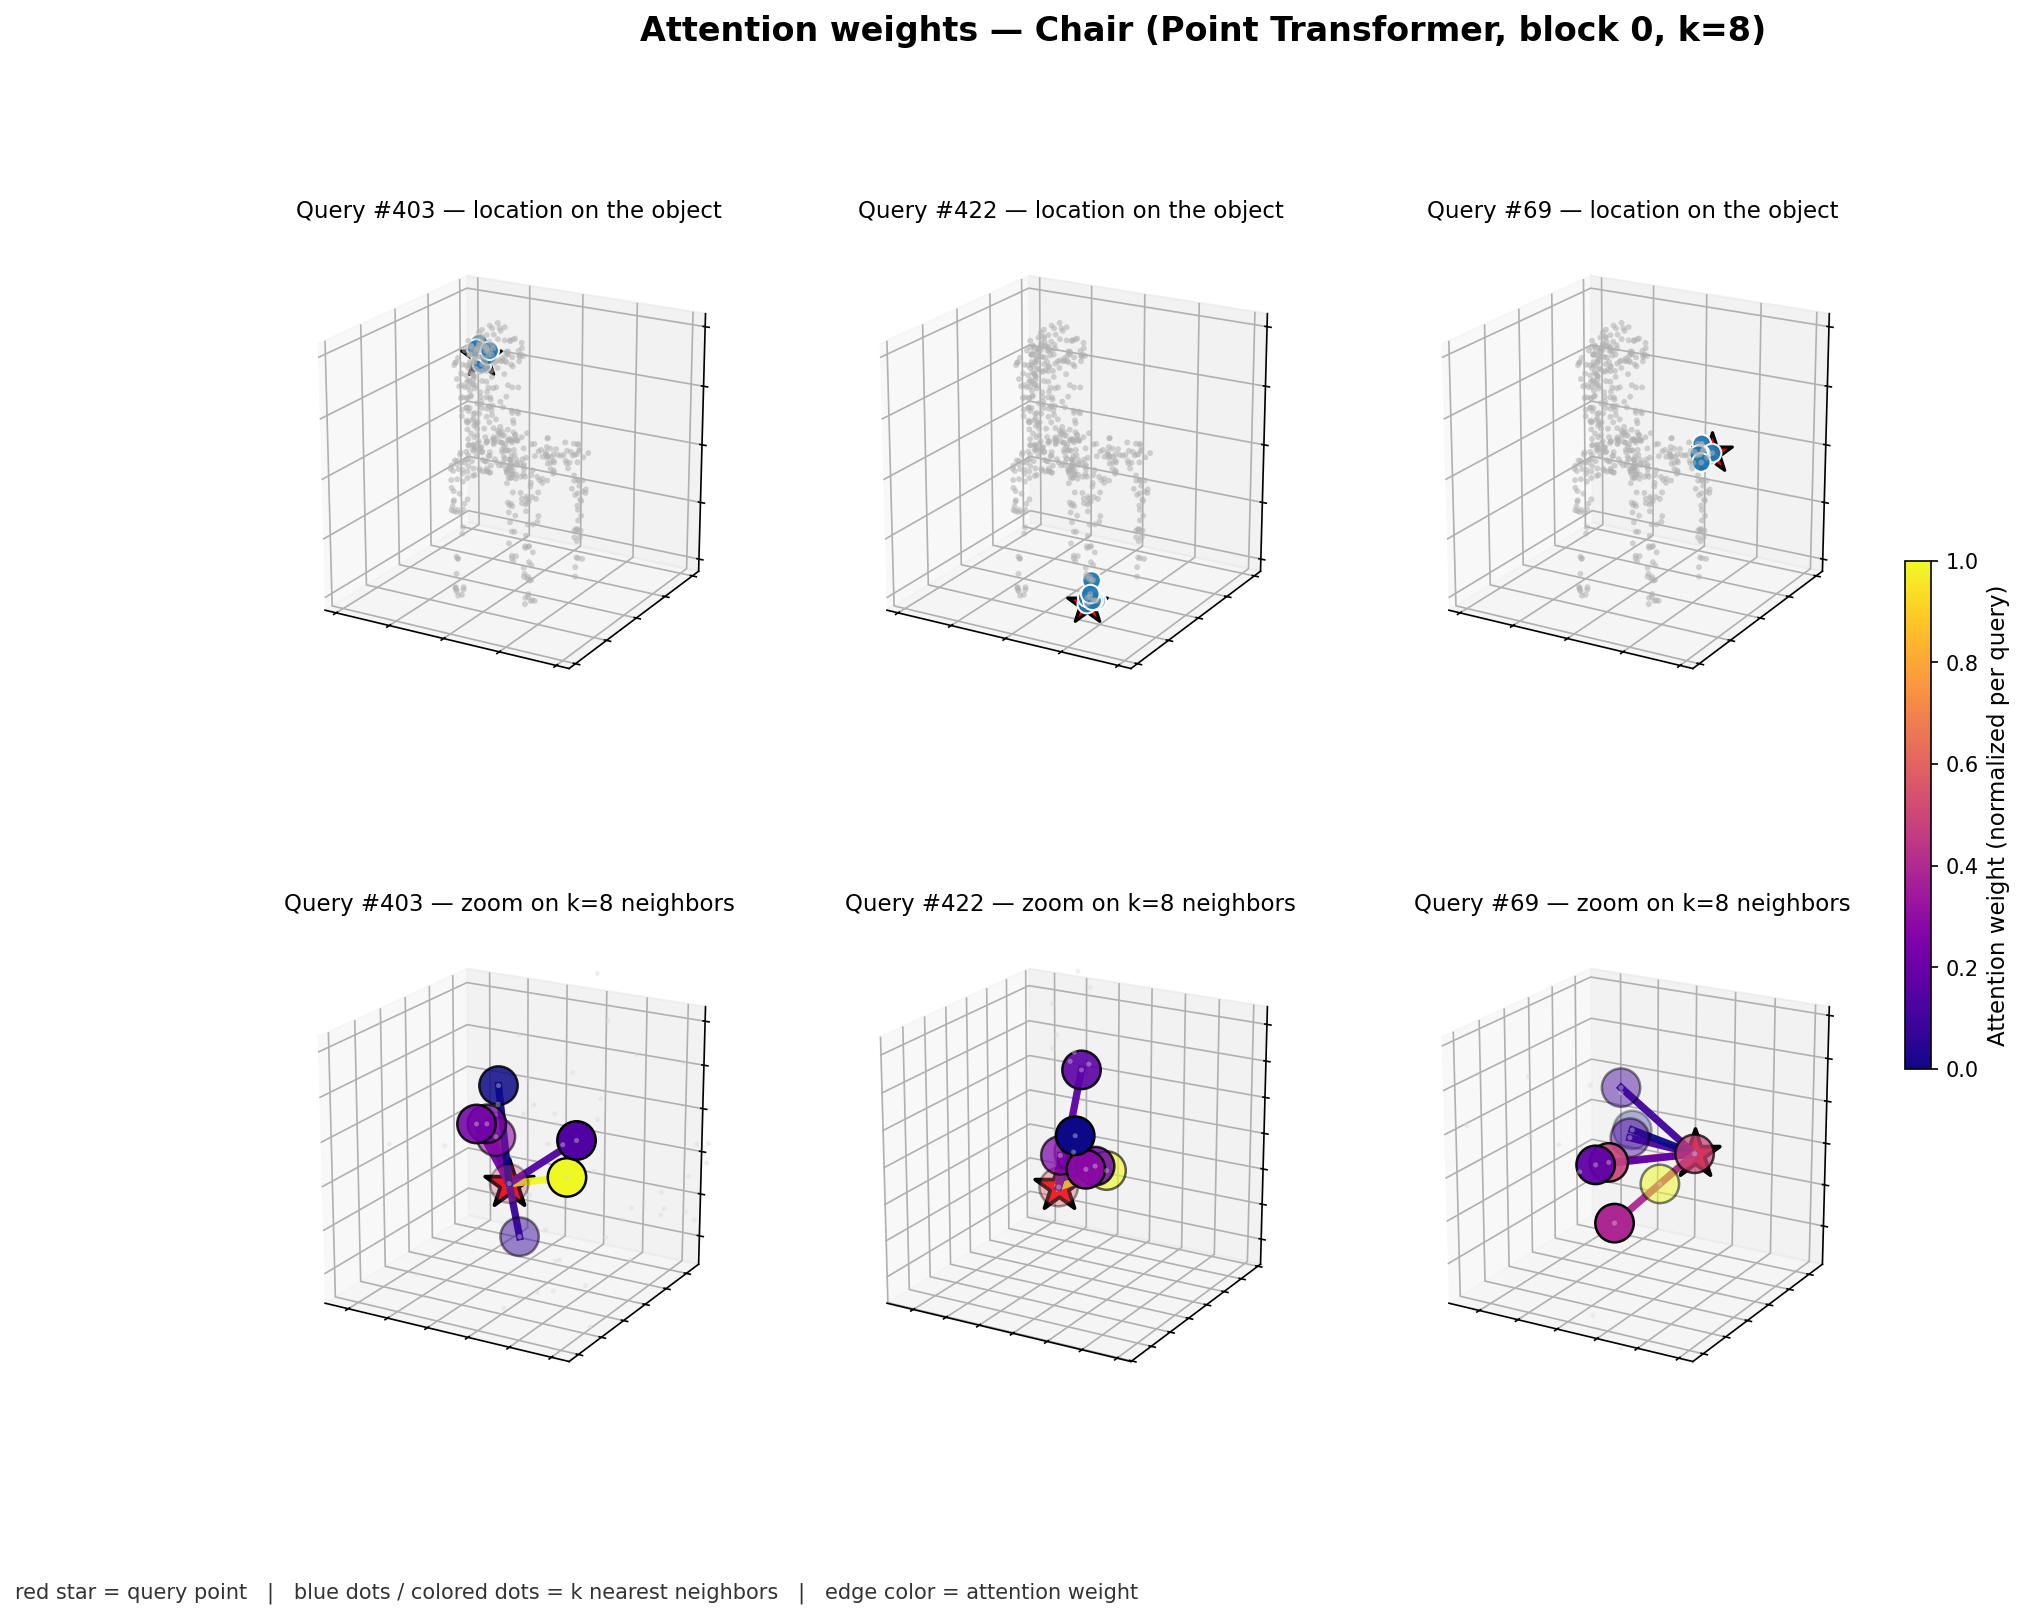
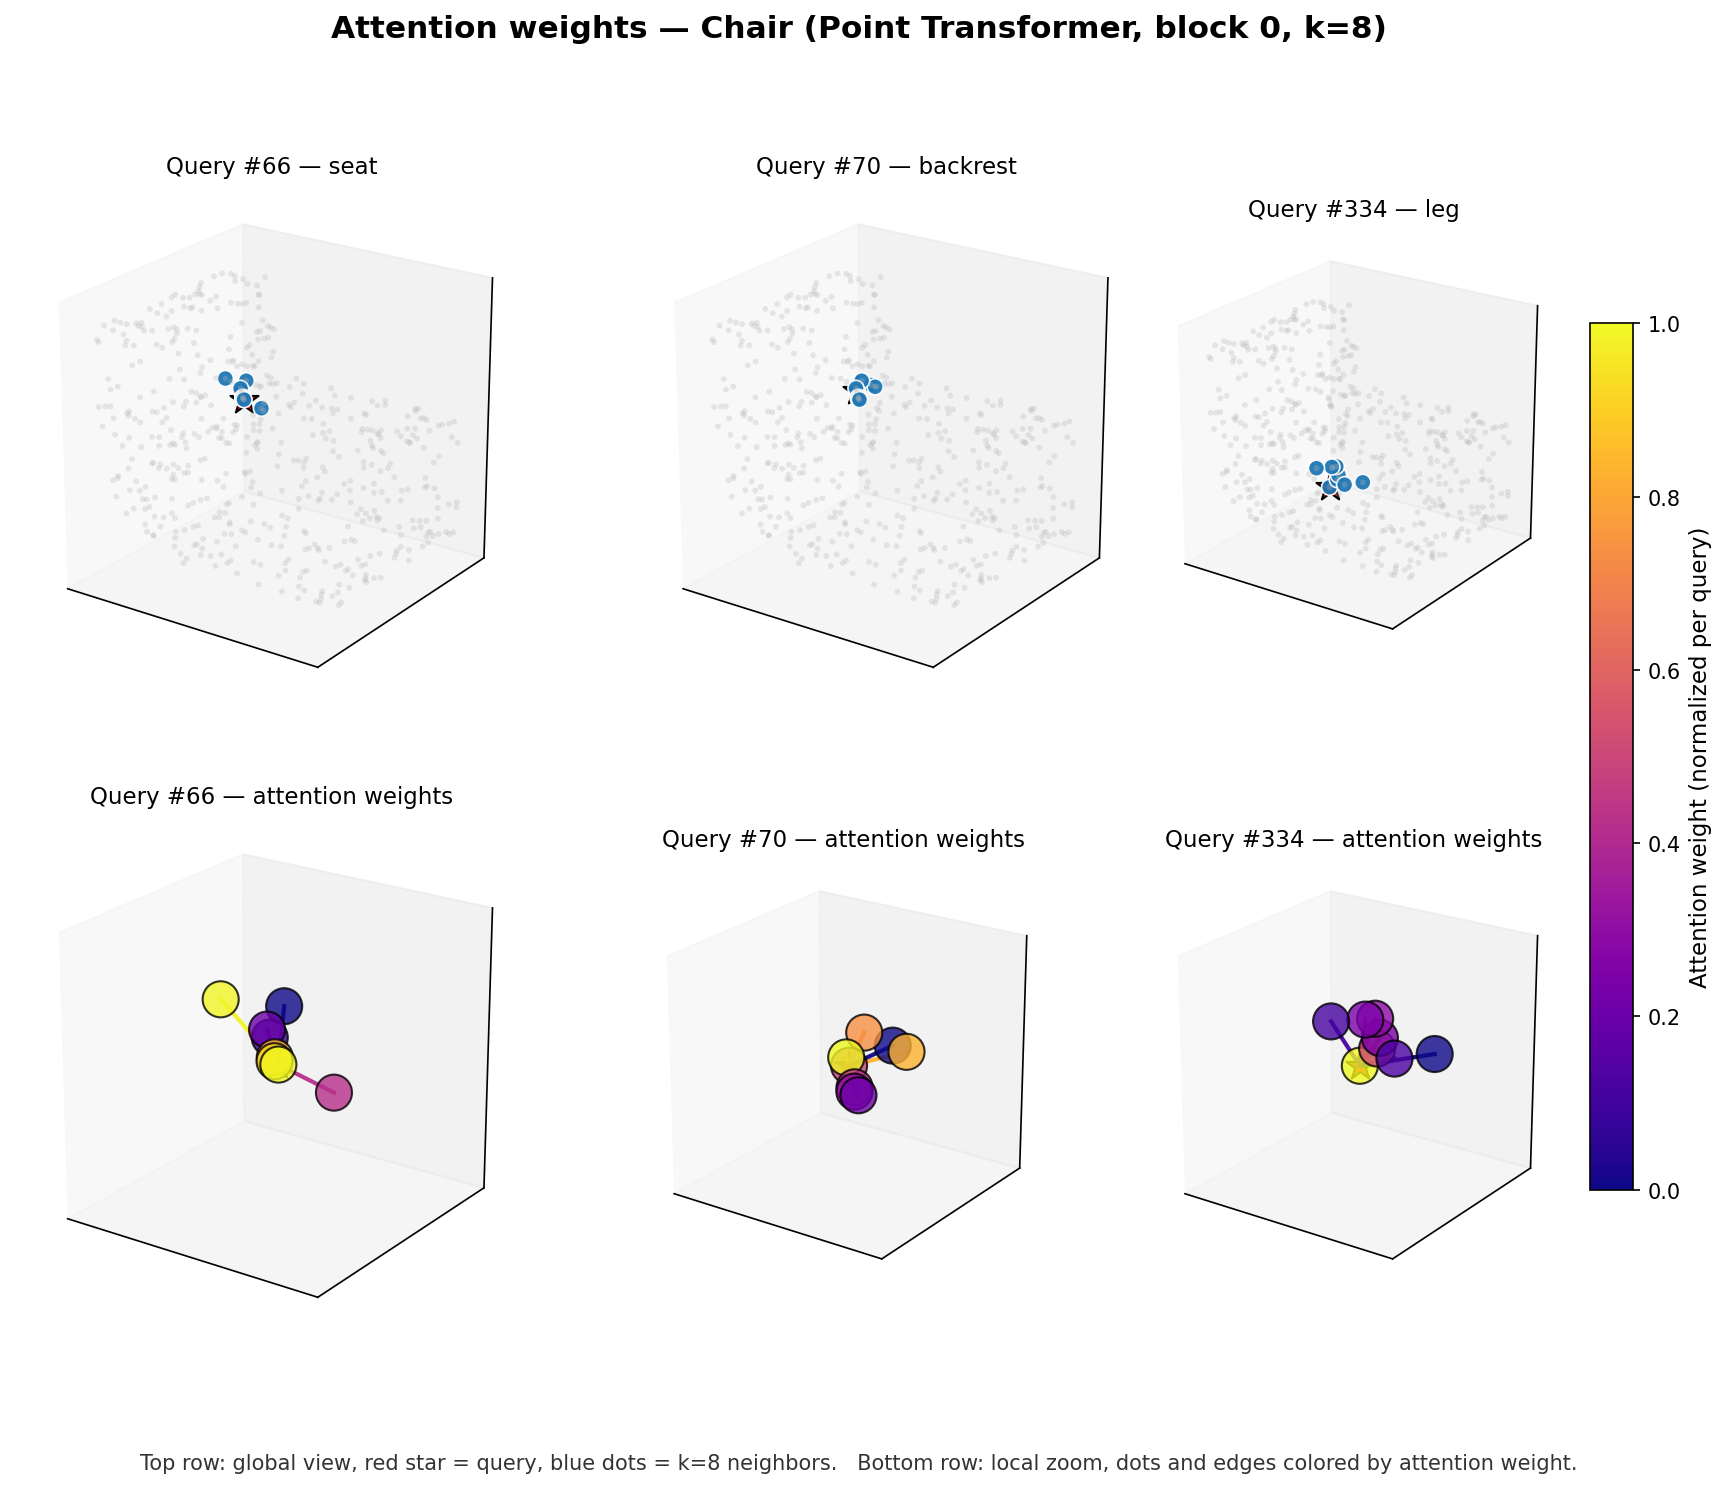
Redesign attention viz: 2x3 layout with semantically distinct queries
- Top row: shared axis limits and camera angle, red star + blue neighbors
  over the full point cloud to show query location
- Bottom row: per-query local zoom with neighbors and edges colored by
  attention weight (plasma, normalized per query)
- Queries are automatically picked on distinct ShapeNet parts (seat,
  backrest, leg for a chair) using segmentation labels
- Hidden axis ticks, shared colorbar for the bottom row, descriptive
  titles and footer legend

diff --git a/visualize_attention.py b/visualize_attention.py
@@ -1,12 +1,16 @@
 #!/usr/bin/env python3
 """
-Visualise attention weights from the Point Transformer.
+Attention visualization for the Point Transformer.
 
-Two-row figure:
-- Top row: full object in grey, query point highlighted in red + its k neighbors
-  as a halo, so the reader can see WHERE the query is located on the object.
-- Bottom row: zoomed-in view of the local neighborhood with neighbors colored
-  by attention weight (bright = high attention, dark = low).
+Produces a 2 x N_QUERIES figure:
+- Top row: full point cloud in light grey, query point as a red star and its
+  k=8 nearest neighbors as blue dots. All three top subplots share the same
+  axis limits and camera angle to stay visually comparable.
+- Bottom row: local zoom around each query. Neighbors and query-neighbor edges
+  are colored by attention weight (normalized per query, plasma colormap).
+
+Queries are picked on semantically distinct parts of the object (e.g. chair
+back, seat, leg) using the ShapeNet part segmentation labels.
 """
 
 from __future__ import annotations
@@ -21,8 +25,28 @@ import torch.nn as nn
 from torch_geometric.datasets import ShapeNet
 from torch_geometric.utils import softmax
 
-from data_shapenet import subsample_points
 from models.point_transformer import knn_graph_pure, PointTransformerClassifier
+
+
+SHAPENET_PART_NAMES: dict[int, str] = {
+    0: "body", 1: "wing", 2: "tail", 3: "engine",
+    4: "handle", 5: "body",
+    6: "panels", 7: "peak",
+    8: "roof", 9: "hood", 10: "wheel", 11: "body",
+    12: "backrest", 13: "seat", 14: "leg", 15: "armrest",
+    16: "earcup", 17: "headband", 18: "data-wire",
+    19: "head", 20: "neck", 21: "body",
+    22: "blade", 23: "handle",
+    24: "base", 25: "pole", 26: "lampshade", 27: "canopy",
+    28: "keyboard", 29: "screen",
+    30: "gas-tank", 31: "seat", 32: "wheel", 33: "handle",
+    34: "light", 35: "frame",
+    36: "handle", 37: "cup",
+    38: "barrel", 39: "handle", 40: "trigger",
+    41: "nose", 42: "body", 43: "fin",
+    44: "wheel", 45: "deck", 46: "truck",
+    47: "top", 48: "leg", 49: "support",
+}
 
 
 def parse_args() -> argparse.Namespace:
@@ -34,8 +58,9 @@ def parse_args() -> argparse.Namespace:
     p.add_argument("--dim", type=int, default=64)
     p.add_argument("--num_blocks", type=int, default=2)
     p.add_argument("--k", type=int, default=8)
-    p.add_argument("--num_query_points", type=int, default=3)
+    p.add_argument("--n_queries", type=int, default=3)
     p.add_argument("--save", type=str, default="vis_attention.png")
+    p.add_argument("--seed", type=int, default=None)
     return p.parse_args()
 
 
@@ -50,8 +75,7 @@ def extract_attention_weights(model: nn.Module, x: torch.Tensor, pos: torch.Tens
             row, col = edge_index
             q_i = pt.lin_q(h_norm)[col]
             k_j = pt.lin_k(h_norm)[row]
-            delta_p = pos[col] - pos[row]
-            rho = pt.mlp_rho(delta_p)
+            rho = pt.mlp_rho(pos[col] - pos[row])
             attn = pt.mlp_gamma(q_i - k_j + rho)
             attn = softmax(attn, index=col, dim=0)
             return edge_index, attn.mean(dim=-1)
@@ -59,7 +83,43 @@ def extract_attention_weights(model: nn.Module, x: torch.Tensor, pos: torch.Tens
     raise ValueError(f"block_idx {block_idx} out of range")
 
 
-def equal_box(ax, center: np.ndarray, radius: float) -> None:
+def subsample(pos: torch.Tensor, x: torch.Tensor, y: torch.Tensor, n: int,
+              rng: random.Random) -> tuple:
+    total = pos.size(0)
+    if total <= n:
+        idx = torch.tensor(rng.choices(range(total), k=n), dtype=torch.long)
+    else:
+        idx = torch.tensor(rng.sample(range(total), n), dtype=torch.long)
+    return pos[idx], x[idx], y[idx]
+
+
+def pick_queries_on_distinct_parts(pos: np.ndarray, labels: np.ndarray,
+                                    n_queries: int, rng: random.Random) -> list[int]:
+    unique_parts, counts = np.unique(labels, return_counts=True)
+    parts_sorted = unique_parts[np.argsort(-counts)]
+
+    queries: list[int] = []
+    for part in parts_sorted:
+        if len(queries) >= n_queries:
+            break
+        candidates = np.where(labels == part)[0]
+        queries.append(int(rng.choice(candidates.tolist())))
+
+    while len(queries) < n_queries:
+        queries.append(rng.randrange(len(pos)))
+    return queries
+
+
+def hide_axes(ax) -> None:
+    ax.set_xticks([])
+    ax.set_yticks([])
+    ax.set_zticks([])
+    ax.set_xticklabels([])
+    ax.set_yticklabels([])
+    ax.set_zticklabels([])
+
+
+def set_equal_limits(ax, center: np.ndarray, radius: float) -> None:
     ax.set_xlim(center[0] - radius, center[0] + radius)
     ax.set_ylim(center[2] - radius, center[2] + radius)
     ax.set_zlim(center[1] - radius, center[1] + radius)
@@ -69,23 +129,11 @@ def equal_box(ax, center: np.ndarray, radius: float) -> None:
         pass
 
 
-def pick_spread_queries(pos: np.ndarray, n: int, rng: random.Random) -> list[int]:
-    """Pick n query points that are far from each other for visual diversity."""
-    n_pts = len(pos)
-    first = rng.randrange(n_pts)
-    picked = [first]
-    for _ in range(n - 1):
-        picked_pos = pos[picked]
-        dists = np.linalg.norm(pos[:, None, :] - picked_pos[None, :, :], axis=-1).min(axis=1)
-        picked.append(int(np.argmax(dists)))
-    return picked
-
-
 def main() -> None:
     args = parse_args()
-    rng = random.Random()
-    categories = ["Airplane", "Chair", "Car", "Table", "Lamp"]
+    rng = random.Random(args.seed)
 
+    categories = ["Airplane", "Chair", "Car", "Table", "Lamp"]
     dataset = ShapeNet(args.data_root, categories=categories, split="test", include_normals=True)
 
     cat_id = categories.index(args.category)
@@ -94,7 +142,9 @@ def main() -> None:
                       else int(dataset[i].category)) == cat_id]
     data_idx = rng.choice(candidates) if candidates else 0
     raw = dataset[data_idx]
-    data = subsample_points(raw, args.num_points, use_normals=True)
+
+    combined_x = torch.cat([raw.pos, raw.x], dim=-1)
+    pos_t, x_t, y_t = subsample(raw.pos, combined_x, raw.y, args.num_points, rng)
 
     ckpt = torch.load(args.checkpoint, map_location="cpu")
     model = PointTransformerClassifier(
@@ -104,88 +154,91 @@ def main() -> None:
     model.load_state_dict(ckpt["model"])
     model.eval()
 
-    batch = torch.zeros(data.pos.size(0), dtype=torch.long)
+    batch = torch.zeros(pos_t.size(0), dtype=torch.long)
     with torch.no_grad():
-        edge_index, attn_weights = extract_attention_weights(model, data.x, data.pos, batch, block_idx=0)
+        edge_index, attn_weights = extract_attention_weights(model, x_t, pos_t, batch, block_idx=0)
 
     row, col = edge_index.numpy()
-    pos = data.pos.numpy()
+    pos = pos_t.numpy()
+    labels = y_t.numpy()
     attn_np = attn_weights.numpy()
 
-    query_points = pick_spread_queries(pos, args.num_query_points, rng)
+    queries = pick_queries_on_distinct_parts(pos, labels, args.n_queries, rng)
 
     obj_center = (pos.max(axis=0) + pos.min(axis=0)) / 2
     obj_radius = (pos.max(axis=0) - pos.min(axis=0)).max() / 2 * 1.05
 
-    cols = len(query_points)
-    fig = plt.figure(figsize=(5.5 * cols, 11))
-    fig.suptitle(f"Attention weights — {args.category} (Point Transformer, block 0, k={args.k})",
-                 fontsize=16, fontweight="bold", y=0.98)
+    top_elev, top_azim = 22, -55
+    bot_elev, bot_azim = 22, -55
 
-    for plot_i, qp in enumerate(query_points):
+    fig = plt.figure(figsize=(15, 10))
+    fig.suptitle(
+        f"Attention weights — {args.category} (Point Transformer, block 0, k={args.k})",
+        fontsize=15, fontweight="bold", y=0.99,
+    )
+
+    for col_i, qp in enumerate(queries):
         neighbor_mask = col == qp
         neighbor_idx = row[neighbor_mask]
         neighbor_attn = attn_np[neighbor_mask]
         a_min, a_max = neighbor_attn.min(), neighbor_attn.max()
         norm_attn = (neighbor_attn - a_min) / (a_max - a_min + 1e-9)
 
-        # ── TOP ROW : global context ────────────────────────────────────────
-        ax_top = fig.add_subplot(2, cols, plot_i + 1, projection="3d")
-        ax_top.scatter(pos[:, 0], pos[:, 2], pos[:, 1],
-                       c="#b0b0b0", s=8, alpha=0.55, edgecolors="none", zorder=1)
-        ax_top.scatter(pos[neighbor_idx, 0], pos[neighbor_idx, 2], pos[neighbor_idx, 1],
-                       c="#1f77b4", s=80, alpha=0.95, edgecolors="white", linewidths=1.0, zorder=5)
-        ax_top.scatter([pos[qp, 0]], [pos[qp, 2]], [pos[qp, 1]],
-                       c="red", s=400, marker="*",
-                       edgecolors="black", linewidths=1.5, zorder=10)
-        equal_box(ax_top, obj_center, obj_radius)
-        ax_top.view_init(elev=20, azim=-60)
-        ax_top.set_title(f"Query #{qp} — location on the object", fontsize=11, pad=8)
-        ax_top.set_xticklabels([]); ax_top.set_yticklabels([]); ax_top.set_zticklabels([])
-        ax_top.grid(True, alpha=0.2)
+        part_id = int(labels[qp])
+        part_name = SHAPENET_PART_NAMES.get(part_id, f"part {part_id}")
 
-        # ── BOTTOM ROW : local zoom with attention ──────────────────────────
-        ax_bot = fig.add_subplot(2, cols, cols + plot_i + 1, projection="3d")
+        ax_top = fig.add_subplot(2, args.n_queries, col_i + 1, projection="3d")
+        ax_top.scatter(pos[:, 0], pos[:, 2], pos[:, 1],
+                       c="#b8b8b8", s=8, alpha=0.30, edgecolors="none", zorder=1)
+        ax_top.scatter(pos[neighbor_idx, 0], pos[neighbor_idx, 2], pos[neighbor_idx, 1],
+                       c="#1f77b4", s=60, alpha=0.95,
+                       edgecolors="white", linewidths=0.8, zorder=5)
+        ax_top.scatter([pos[qp, 0]], [pos[qp, 2]], [pos[qp, 1]],
+                       c="red", s=200, marker="*",
+                       edgecolors="black", linewidths=1.0, zorder=10)
+        set_equal_limits(ax_top, obj_center, obj_radius)
+        ax_top.view_init(elev=top_elev, azim=top_azim)
+        ax_top.set_title(f"Query #{qp} — {part_name}", fontsize=11, pad=6)
+        hide_axes(ax_top)
+
+        ax_bot = fig.add_subplot(2, args.n_queries, args.n_queries + col_i + 1, projection="3d")
 
         local_pts = pos[list(neighbor_idx) + [qp]]
         local_center = local_pts.mean(axis=0)
-        local_radius = np.linalg.norm(local_pts - local_center, axis=1).max() * 1.6 + 1e-3
-
-        nearby_mask = np.linalg.norm(pos - local_center, axis=1) < local_radius * 1.5
-        ax_bot.scatter(pos[nearby_mask, 0], pos[nearby_mask, 2], pos[nearby_mask, 1],
-                       c="#d8d8d8", s=6, alpha=0.4, edgecolors="none", zorder=1)
+        max_dist = np.linalg.norm(local_pts - pos[qp], axis=1).max()
+        local_radius = max_dist * 1.5 + 1e-3
 
         for ni, na in zip(neighbor_idx, norm_attn):
             ax_bot.plot3D([pos[qp, 0], pos[ni, 0]],
                           [pos[qp, 2], pos[ni, 2]],
                           [pos[qp, 1], pos[ni, 1]],
-                          color=plt.cm.plasma(na), alpha=0.95, linewidth=3.5, zorder=3)
+                          color=plt.cm.plasma(na), alpha=0.95, linewidth=2.0, zorder=3)
 
         colors = plt.cm.plasma(norm_attn)
         ax_bot.scatter(pos[neighbor_idx, 0], pos[neighbor_idx, 2], pos[neighbor_idx, 1],
-                       c=colors, s=340, edgecolors="black", linewidths=1.2, zorder=5)
-
+                       c=colors, s=300, alpha=0.8,
+                       edgecolors="black", linewidths=1.0, zorder=5)
         ax_bot.scatter([pos[qp, 0]], [pos[qp, 2]], [pos[qp, 1]],
-                       c="red", s=600, marker="*",
-                       edgecolors="black", linewidths=1.8, zorder=10)
+                       c="red", s=200, marker="*",
+                       edgecolors="black", linewidths=1.0, zorder=10)
 
-        equal_box(ax_bot, local_center, local_radius)
-        ax_bot.view_init(elev=20, azim=-60)
-        ax_bot.set_title(f"Query #{qp} — zoom on k={args.k} neighbors", fontsize=11, pad=8)
-        ax_bot.set_xticklabels([]); ax_bot.set_yticklabels([]); ax_bot.set_zticklabels([])
-        ax_bot.grid(True, alpha=0.2)
+        set_equal_limits(ax_bot, np.array([pos[qp, 0], pos[qp, 1], pos[qp, 2]]), local_radius)
+        ax_bot.view_init(elev=bot_elev, azim=bot_azim)
+        ax_bot.set_title(f"Query #{qp} — attention weights", fontsize=11, pad=6)
+        hide_axes(ax_bot)
 
-    # shared colorbar
+    bottom_axes = [ax for ax in fig.axes[args.n_queries:]]
     sm = plt.cm.ScalarMappable(cmap="plasma", norm=plt.Normalize(vmin=0, vmax=1))
     sm.set_array([])
-    cbar = fig.colorbar(sm, ax=fig.axes, shrink=0.4, pad=0.02, location="right")
+    cbar = fig.colorbar(sm, ax=bottom_axes, shrink=0.75, pad=0.02, location="right")
     cbar.set_label("Attention weight (normalized per query)", fontsize=11)
 
-    # legend
-    fig.text(0.02, 0.02,
-             "red star = query point   |   blue dots / colored dots = k nearest neighbors   "
-             "|   edge color = attention weight",
-             fontsize=10, color="#333333")
+    fig.text(
+        0.5, 0.02,
+        "Top row: global view, red star = query, blue dots = k=8 neighbors.   "
+        "Bottom row: local zoom, dots and edges colored by attention weight.",
+        ha="center", fontsize=10, color="#333333",
+    )
 
     plt.savefig(args.save, dpi=150, bbox_inches="tight")
     print(f"Image saved: {args.save}")
